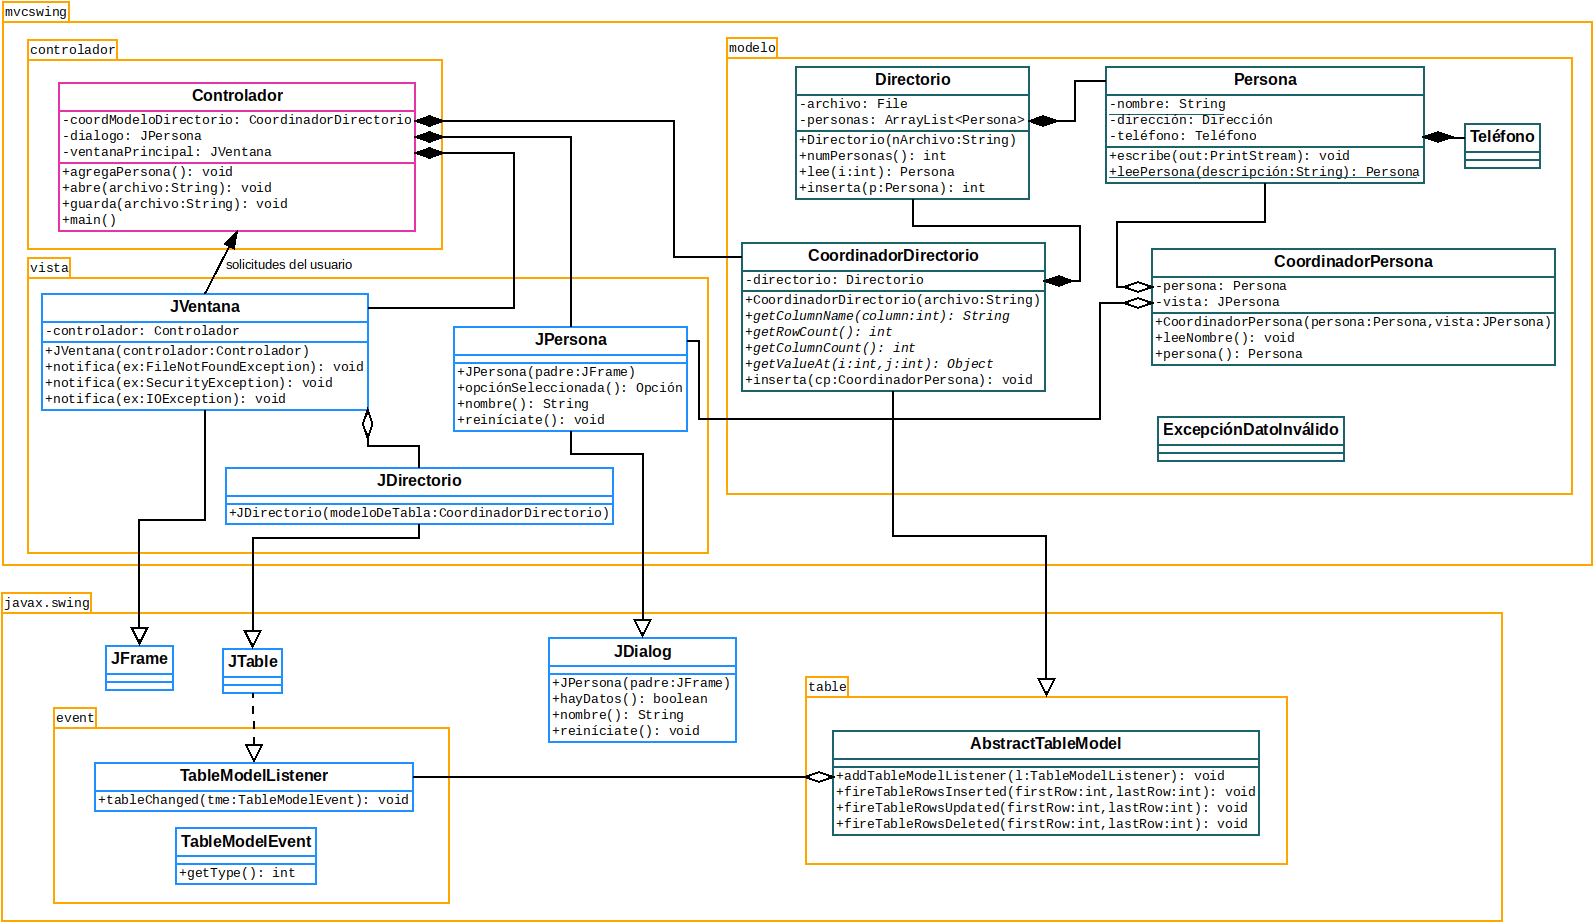
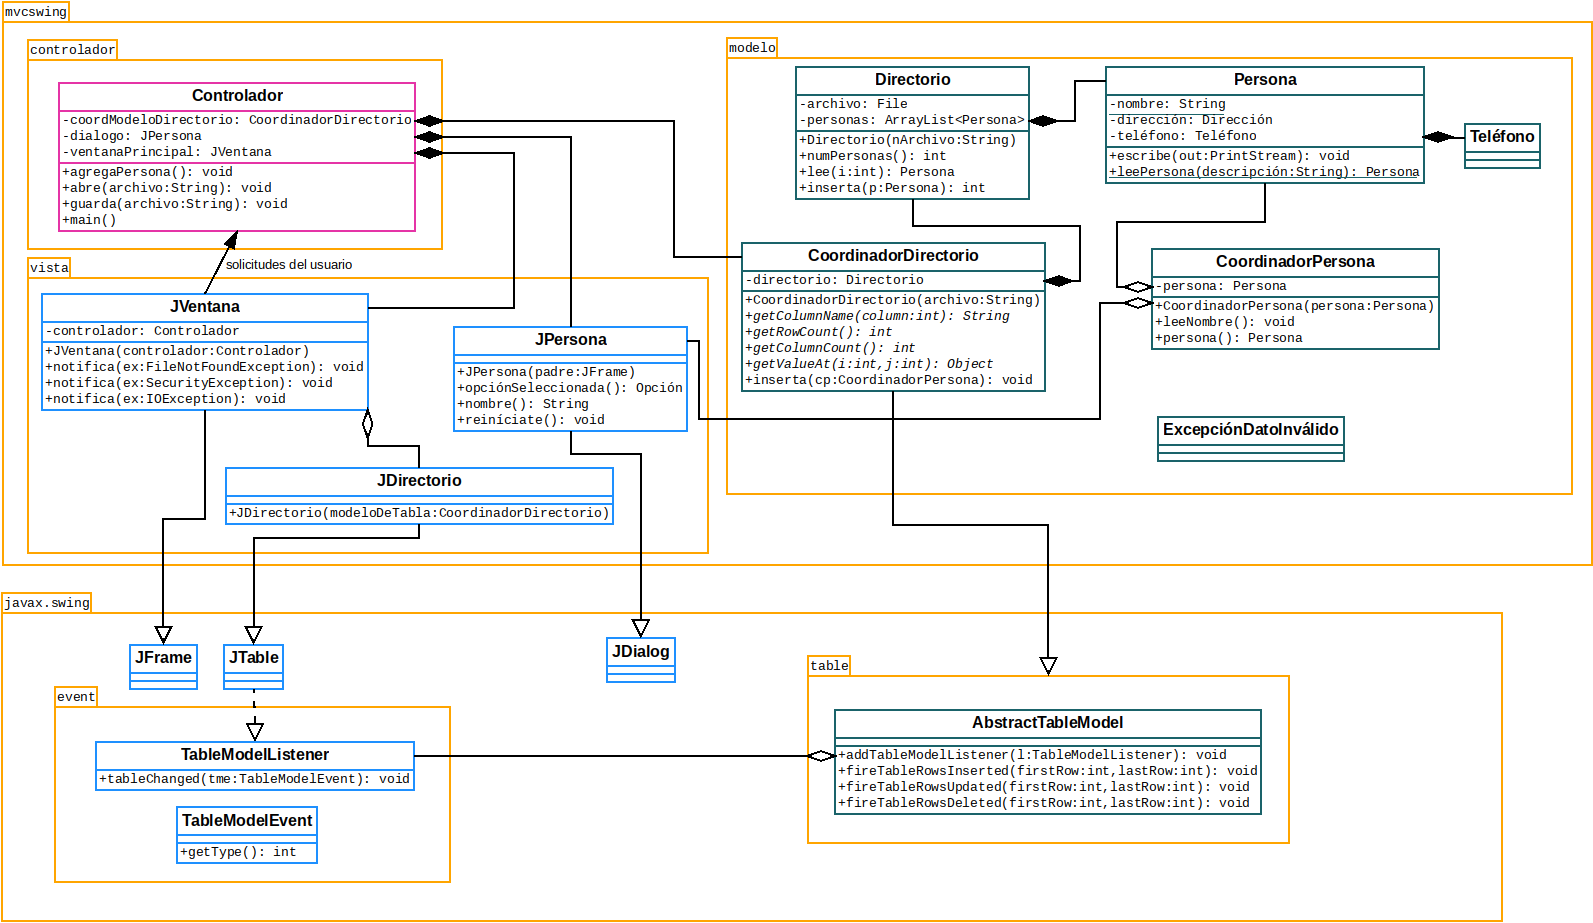
Mejoras menores en el diseño y la documentación.

diff --git a/src/mvcswing/modelo/CoordinadorPersona.java b/src/mvcswing/modelo/CoordinadorPersona.java
@@ -1,7 +1,5 @@
 /*
- * To change this license header, choose License Headers in Project Properties.
- * To change this template file, choose Tools | Templates
- * and open the template in the editor.
+ * Demo con propósito educativo sin afán de lucro ni compromiso comercial.
  */
 package mvcswing.modelo;
 
@@ -14,26 +12,24 @@ import mvcswing.vista.JPersona;
 public class CoordinadorPersona {
 	
 	private final Persona persona;
-	private final JPersona vista;
 	
 	/**
 	 * Constructor que recibe una vista de java Swing y una persona con los
 	 * datos del modelo.
-	 * @param vista 
-	 * @param persona 
+	 * @param persona Modelo
 	 */
-	public CoordinadorPersona(Persona persona, JPersona vista) {
+	public CoordinadorPersona(Persona persona) {
 		this.persona = persona;
-		this.vista = vista;
 	}
 	
 	/**
 	 * Lee el nombre propuesto desde el valor actual en la vista y lo valida
 	 * antes de asignarlo al modelo de datos.
+	 * @param vista   Diálogo que pide/muestra los datos de la persona.
 	 * @throws ExcepciónDatoInválido si el nombre es <code>null</code> o una
 	 *         cadena vacía.
 	 */
-	public void leeNombre() throws ExcepciónDatoInválido {
+	public void leeNombre(JPersona vista) throws ExcepciónDatoInválido {
 		String nombre = vista.nombre();
 		if (nombre == null || nombre.isBlank()) throw new ExcepciónDatoInválido("No se ha asignado un nombre");
 		persona.nombre(nombre);

diff --git a/src/mvcswing/controlador/Controlador.java b/src/mvcswing/controlador/Controlador.java
@@ -16,7 +16,8 @@ import mvcswing.vista.JPersona;
 import mvcswing.vista.JVentana;
 
 /**
- *
+ * Controlador, contiene la lógica de la aplicación y establece la comunicación
+ * entre modelo y vistas.
  * @author blackzafiro
  */
 public class Controlador {
@@ -79,14 +80,14 @@ public class Controlador {
 	 * al directorio.
 	 */
 	public void agregaPersona() {
-		CoordinadorPersona coord = new CoordinadorPersona(new Persona(), dialogo);
+		CoordinadorPersona coord = new CoordinadorPersona(new Persona());
 		
 		boolean datosVálidos = false;
 		while(!datosVálidos) {
 			dialogo.setVisible(true);
 			if (dialogo.opciónSeleccionada() == JPersona.Opción.CANCELAR)  return;
 			try {
-				coord.leeNombre();
+				coord.leeNombre(dialogo);
 			} catch(ExcepciónDatoInválido ex) {
 				JOptionPane.showMessageDialog(ventanaPrincipal,
 						ex.getMessage(),

diff --git a/src/mvcswing/vista/JPersona.java b/src/mvcswing/vista/JPersona.java
@@ -24,7 +24,7 @@ public class JPersona extends JDialog {
 		CANCELAR;
 	}
 	
-    private final JTextField cajaNombre = new JTextField(50);
+	private final JTextField cajaNombre = new JTextField(50);
 	private final JTextField cajaDirección = new JTextField(50);
 	private final JTextField cajaTeléfono = new JTextField(37);
 	private final JTextField cajaExtensión = new JTextField(7);
@@ -32,7 +32,8 @@ public class JPersona extends JDialog {
 	private Opción opciónSeleccionada = Opción.CANCELAR;
 	
 	/**
-	 * Crea un diálogo sujeto a la ventana principal de la aplicación.
+	 * Crea un diálogo para solicitar/mostrar los datos de una persona,
+	 * sujeto a la ventana principal de la aplicación.
 	 * @param padre 
 	 */
 	public JPersona(JFrame padre) {

diff --git a/README.md b/README.md
@@ -1,6 +1,6 @@
 # icc-mvc-swing
 
-Demo de un diseño de aplicación con Java Swing siguiendo del patrón Modelo-Vista-Controlador (MVC).
+Demo de un diseño de aplicación con Java Swing siguiendo el patrón Modelo-Vista-Controlador (MVC).
 La aplicación ilustra un directorio telefónico con los elementos básicos de programación para leer datos desde un archivo de texto por defecto e insertar personas, aunque sólo inserta el nombre.  Queda como un ejercicio para el alumno completar el resto de la funcionalidad.
 
 Se inlcuye un Makefile para compilar y ejecutar el demo con los comandos:
